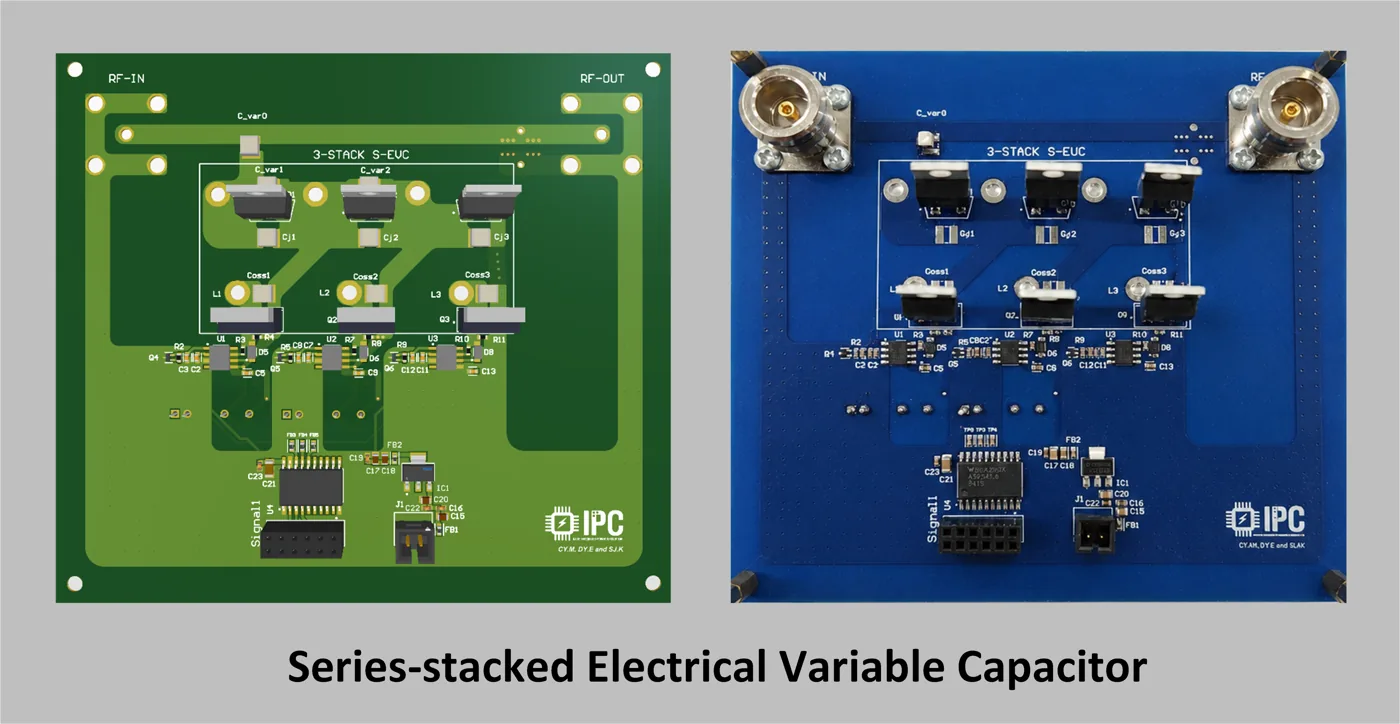
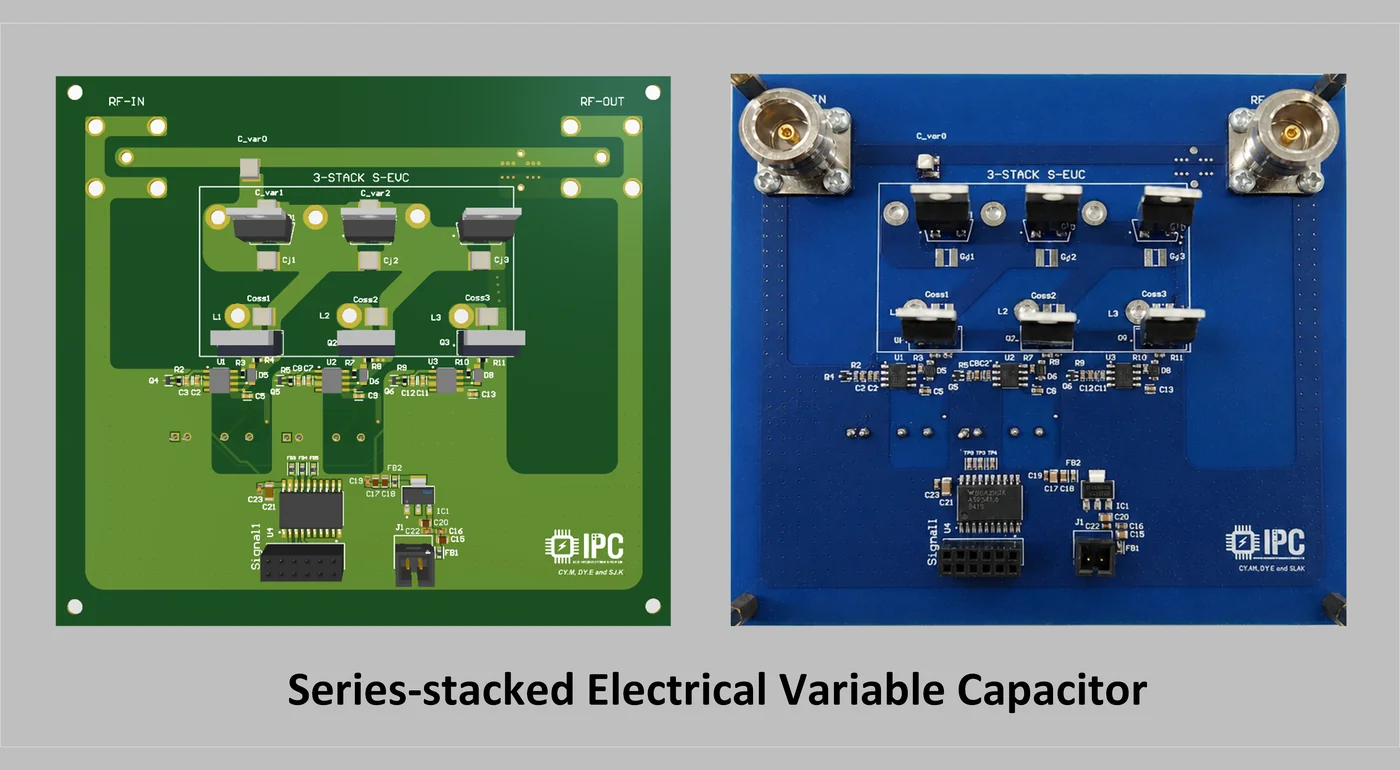
Sync: RF photos at frame ratio

diff --git a/applications/rf-systems.html b/applications/rf-systems.html
@@ -31,7 +31,7 @@
       <h2 id="topics-title">Research topics</h2>
     </div>
     <article class="topic">
-      <div class="art photo"><img src="../assets/apps/rf-pa-photo.webp" loading="lazy" decoding="async" alt="High-Power RF Amplifiers"></div>
+      <div class="art photo"><img src="../assets/apps/rf-pa-photo.webp?v=2" loading="lazy" decoding="async" alt="High-Power RF Amplifiers"></div>
       <div class="topic-copy">
         <span class="num">01</span>
         <h3>High-Power RF Amplifiers</h3>
@@ -40,7 +40,7 @@
       </div>
     </article>
     <article class="topic flip">
-      <div class="art photo"><img src="../assets/apps/rf-evc-photo.webp" loading="lazy" decoding="async" alt="Impedance matching system"></div>
+      <div class="art photo"><img src="../assets/apps/rf-evc-photo.webp?v=2" loading="lazy" decoding="async" alt="Impedance matching system"></div>
       <div class="topic-copy">
         <span class="num">02</span>
         <h3>Impedance matching system</h3>
@@ -63,7 +63,7 @@
     <ul class="proj-list current"><li><span class="proj-logo"><img src="../assets/partners/samsung.png" alt="Samsung" loading="lazy" decoding="async"></span><div class="proj-copy"><h3>High-performance RF power amplifier and impedance matching systems</h3><p>Samsung Research</p></div><span class="proj-period">Since 2025.04</span></li></ul>
     <details class="proj-done" hidden><summary><span>Completed projects (<span class="proj-count">0</span>)</span></summary><ul class="proj-list"></ul></details>
   </section>
-  <script src="../assets/projects-config.js?v=202611032201"></script><script src="../assets/projects.js?v=202611032201" defer></script>
+  <script src="../assets/projects-config.js?v=202611032209"></script><script src="../assets/projects.js?v=202611032209" defer></script>
 
   <nav class="app-next" aria-label="Applications">
     <p class="kicker">Explore other applications</p>

diff --git a/applications/electric-vehicles.html b/applications/electric-vehicles.html
@@ -54,7 +54,7 @@
     <ul class="proj-list current"><li><span class="proj-logo"><img src="../assets/partners/hyundai.png" alt="Hyundai" loading="lazy" decoding="async"></span><div class="proj-copy"><h3>Electric-vehicle charging architectures (vehicle-to-vehicle charging)</h3><p>Hyundai Motor Company</p></div><span class="proj-period">Since 2026.03</span></li><li><span class="proj-logo"><img src="../assets/partners/hyundai.png" alt="Hyundai" loading="lazy" decoding="async"></span><div class="proj-copy"><h3>Matrix-type power conversion for electric vehicles</h3><p>Hyundai Motor Company</p></div></li><li><span class="proj-logo"><img src="../assets/partners/changsung.png" alt="Chang Sung" loading="lazy" decoding="async"></span><div class="proj-copy"><h3>Next-generation magnetic components for electric vehicles</h3><p>Consortium led by Chang Sung Corporation, with Hyundai Motor Company and research institutes</p></div><span class="proj-period">Since 2026</span></li></ul>
     <details class="proj-done" hidden><summary><span>Completed projects (<span class="proj-count">0</span>)</span></summary><ul class="proj-list"></ul></details>
   </section>
-  <script src="../assets/projects-config.js?v=202611032201"></script><script src="../assets/projects.js?v=202611032201" defer></script>
+  <script src="../assets/projects-config.js?v=202611032209"></script><script src="../assets/projects.js?v=202611032209" defer></script>
 
   <nav class="app-next" aria-label="Applications">
     <p class="kicker">Explore other applications</p>

diff --git a/applications/ai-datacenter.html b/applications/ai-datacenter.html
@@ -63,7 +63,7 @@
     <ul class="proj-list current"><li><span class="proj-logo"><img src="../assets/partners/samsung.png" alt="Samsung" loading="lazy" decoding="async"></span><div class="proj-copy"><h3>High-performance accelerator power delivery (MBVR + IVR)</h3><p>Samsung Electronics (System LSI)</p></div><span class="proj-period">2025.10 – 2028.09</span></li><li><span class="proj-logo"><img src="../assets/partners/nrf.svg" alt="NRF" loading="lazy" decoding="async"></span><div class="proj-copy"><h3>Power electronics for high-performance AI semiconductors: component, circuit, architecture and system</h3><p>National Research Foundation of Korea (NRF) · Outstanding Young Scientist Grant</p></div><span class="proj-period">Since 2025.03</span></li></ul>
     <details class="proj-done" hidden><summary><span>Completed projects (<span class="proj-count">0</span>)</span></summary><ul class="proj-list"></ul></details>
   </section>
-  <script src="../assets/projects-config.js?v=202611032201"></script><script src="../assets/projects.js?v=202611032201" defer></script>
+  <script src="../assets/projects-config.js?v=202611032209"></script><script src="../assets/projects.js?v=202611032209" defer></script>
 
   <nav class="app-next" aria-label="Applications">
     <p class="kicker">Explore other applications</p>

diff --git a/applications/wireless-power-transfer.html b/applications/wireless-power-transfer.html
@@ -54,7 +54,7 @@
     <ul class="proj-list current"><li class="proj-empty">No ongoing projects.</li></ul>
     <details class="proj-done"><summary><span>Completed projects (<span class="proj-count">1</span>)</span></summary><ul class="proj-list"><li><span class="proj-logo"><img src="../assets/partners/voda.png" alt="VODA" loading="lazy" decoding="async"></span><div class="proj-copy"><h3>Multi-output wireless power transfer for future smart factories</h3><p>VODA</p></div><span class="proj-period">2025.04</span></li></ul></details>
   </section>
-  <script src="../assets/projects-config.js?v=202611032201"></script><script src="../assets/projects.js?v=202611032201" defer></script>
+  <script src="../assets/projects-config.js?v=202611032209"></script><script src="../assets/projects.js?v=202611032209" defer></script>
 
   <nav class="app-next" aria-label="Applications">
     <p class="kicker">Explore other applications</p>

diff --git a/applications/humanoids.html b/applications/humanoids.html
@@ -54,7 +54,7 @@
     <ul class="proj-list current"><li><span class="proj-logo"><img src="../assets/partners/kimm.png" alt="KIMM" loading="lazy" decoding="async"></span><div class="proj-copy"><h3>SMA–motor hybrid actuation for humanoid robots</h3><p>Korea Institute of Machinery and Materials (KIMM)</p></div><span class="proj-period">Since 2025.04</span></li></ul>
     <details class="proj-done" hidden><summary><span>Completed projects (<span class="proj-count">0</span>)</span></summary><ul class="proj-list"></ul></details>
   </section>
-  <script src="../assets/projects-config.js?v=202611032201"></script><script src="../assets/projects.js?v=202611032201" defer></script>
+  <script src="../assets/projects-config.js?v=202611032209"></script><script src="../assets/projects.js?v=202611032209" defer></script>
 
   <nav class="app-next" aria-label="Applications">
     <p class="kicker">Explore other applications</p>
